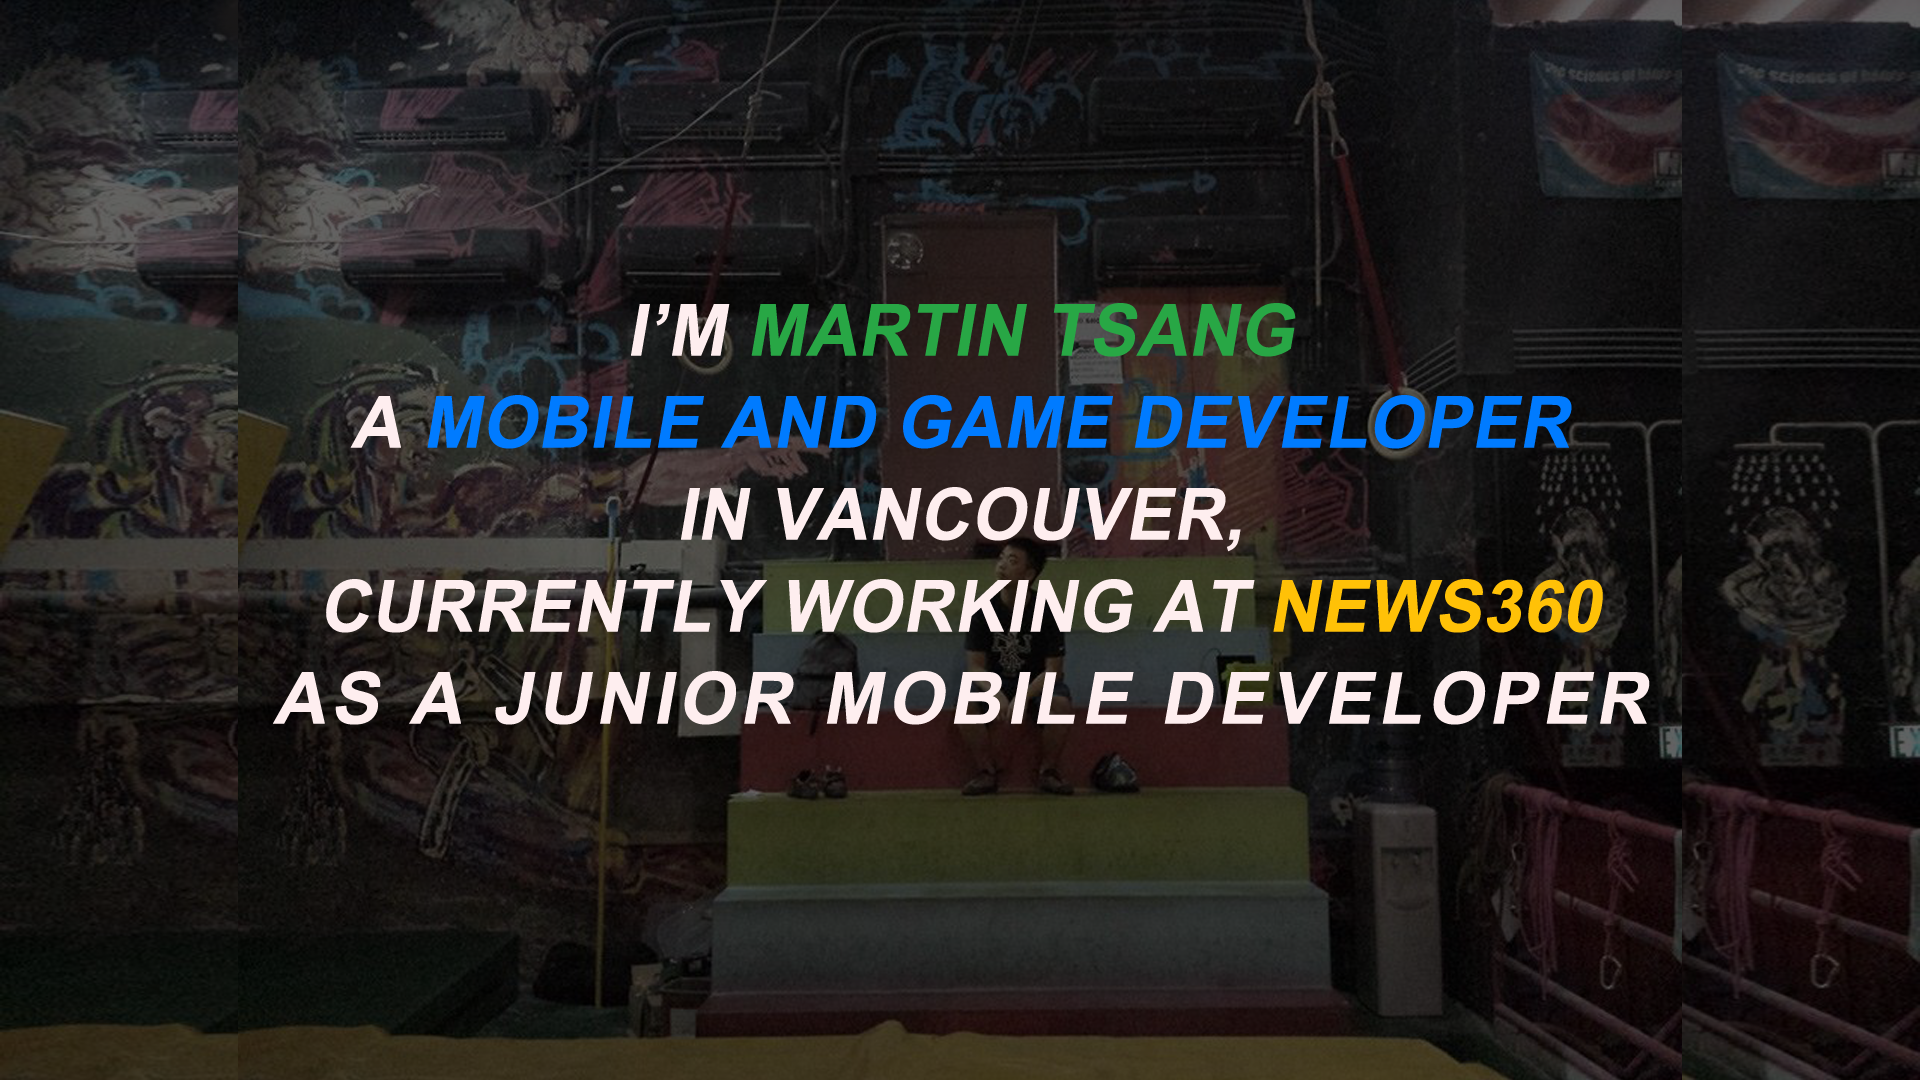
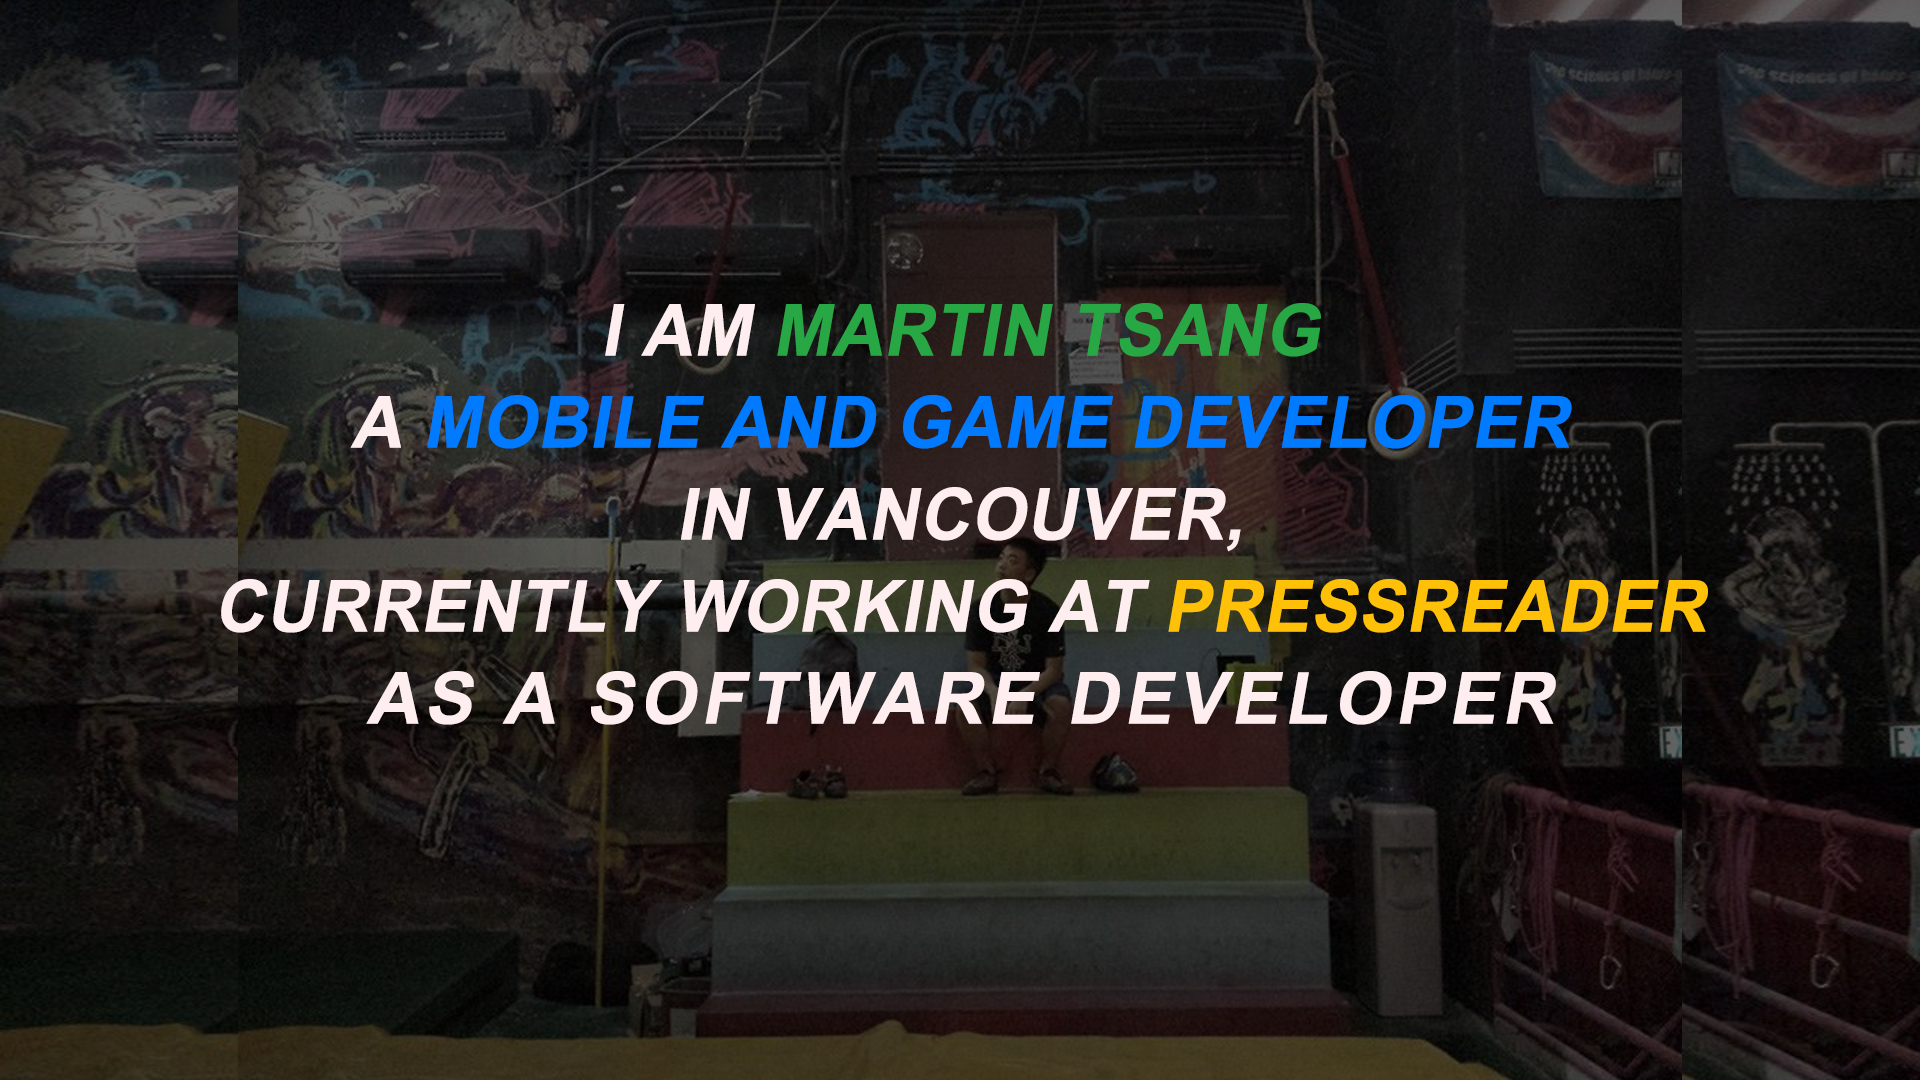
Updated to linkdin information

Changed region(s): [[0.0938, 0.5194, 0.9062, 0.6722], [0.3125, 0.275, 0.6875, 0.3361]]

diff --git a/index.html b/index.html
@@ -255,12 +255,13 @@
       <div class="col-md">
         <div class="card">
           <div class="card-body">
-            <h5 class="card-title">Mobile Developer - PressReader</h5>
+            <h5 class="card-title">Software Developer - PressReader</h5>
             <p class="card-subtitle mb-2 text-muted">May 2019 - Present</p>
             <p class="card-subtitle mb-2 text-muted">Vancouver, Canada</p>
             <p class="card-text">iOS and Android developer on the front-end team</p>
-            <p class="card-text">&bull; Work closesly with business and QA teams to resolve Android and iOS bugs and feature or UI changes needed for clients</p>
-            <p class="card-text">&bull; Refactored deprecated code on legacy iOS projects </p>
+            <p class="card-text">&bull; Created a process to build and publish batches of Android applications onto Google Play, by using a continues integration solution on Team City, reducing average processing time from 30 minutes to 5</p>
+            <p class="card-text">&bull; Maintained and supported several mobile applications for customers by implementing design changes while refactoring code base allowing faster design changes for future client requests </p>
+            <p class="card-text">&bull; Built an automated pipeline allowing clients to generate and build new customized Android applications for themselves, optimizing development time from 24 hours to 30 minutes. </p>
           </div>
         </div>
       </div>
@@ -276,10 +277,10 @@
             <h5 class="card-title">Junior Mobile Developer - News360</h5>
             <p class="card-subtitle mb-2 text-muted">Nov 2017 - Present</p>
             <p class="card-subtitle mb-2 text-muted">Vancouver, Canada</p>
-            <p class="card-text">A mobile developer on the front-end team working on both Android and iOS platforms implementing new features and designs</p>
-            <p class="card-text">&bull; Refactored and implemented features to follow Model View Presenter design pattern and covered presenter logic with unit tests</p>
-            <p class="card-text">&bull; Worked closely with product design team to improve user experience on Android and iOS</p>
-            <p class="card-text">&bull; Attended architecture meetings to discuss backend and frontend implementation of new features and improvments to our applications</p>
+            <p class="card-text">Mobile developer on the front-end team working on both Android and iOS platforms implementing new features and designs</p>
+            <p class="card-text">&bull;  Restructured Android application code base to follow model view presenter design pattern to facilitate automated unit testing allowing 70% test coverage</p>
+            <p class="card-text">&bull; Implemented A/B testing on mobile applications covering user experience and design utilizing the Firebase SDK, which led to a 5% increase of on-boarding conversion rate</p>
+            <p class="card-text">&bull; Integrated accelerated mobile pages (AMP) into Android application by prioritizing AMP sites over original sources leading to 6x faster load times</p>
           </div>
         </div>
       </div>
@@ -296,8 +297,8 @@
             <p class="card-subtitle mb-2 text-muted">May 2017 - May 2018</p>
             <p class="card-subtitle mb-2 text-muted">Vancouver, Canada</p>
             <p class="card-text">Worked in a team of four to create a Unity developed mobile game called Battleship Buddies published to the Google Play Store</p>
-            <p class="card-text">&bull; Developed the AI opponent for users to play against with varying difficulty using the Minimax algorithm</p>
-            <p class="card-text">&bull; Implemented animation, particle effects and user interface for a more immersive and user friendly experience</p>
+            <p class="card-text">&bull; Created the AI for a mobile battleship game by designing and implementing a finite state machine execution flow which resulted in an average 60% win rate for the CPU</p>
+            <p class="card-text">&bull; Implemented authentication, analytics and push notification features by integrating Firebase services into the Unity game engine, giving the product team marketing and analytics tools</p>
             <p class="card-text">&bull; Integrated Google Firebase to utilize its analytics, database and authentication features for detailed understand of player statistics</p>
             <p class="card-text"><a target="_blank" href="https://play.google.com/store/apps/details?id=ca.inkpadstudios.battleshipbuddies2">Google Play Store</a></p>
           </div>
